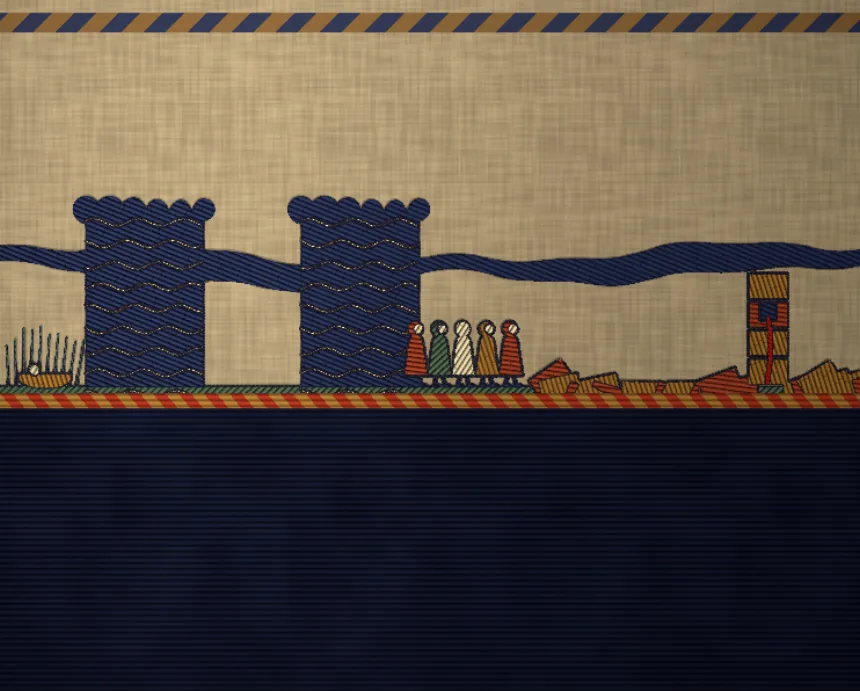
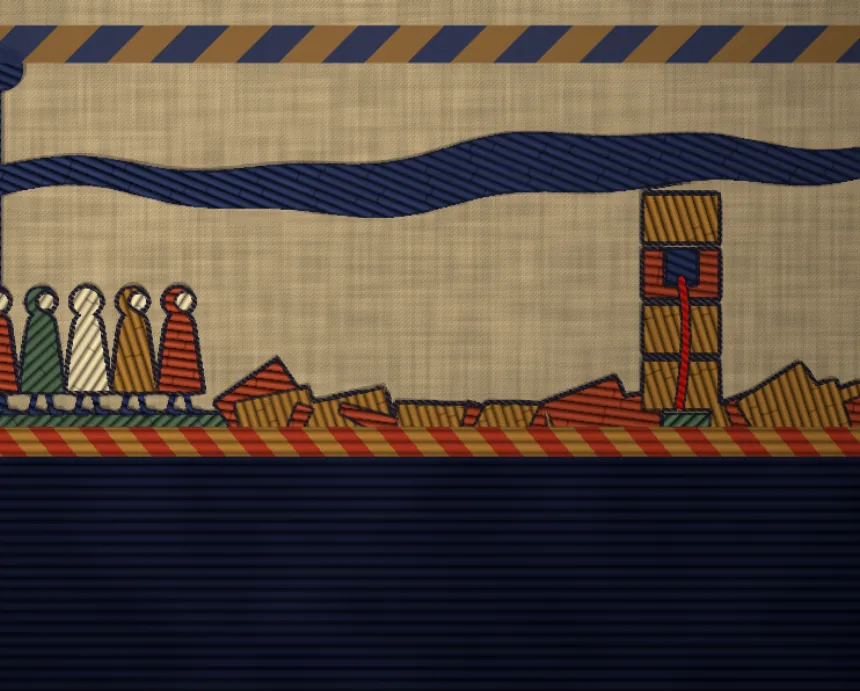
Pan the Hebrews 11 cloth on phones and fix review findings
Phones now see a closer view that travels along each scene on a route
timed to its events, so figures are about twice the size. Scene I keeps
the full view. Art no longer shows above the top border.

Fix two Korean chips that ended on an opening quote mark, use the
새번역 term for the furnace, smooth stiff Korean phrasing, and restore
the teacher's NIV wording in the commentary.

diff --git a/content/hebrews/11.ts b/content/hebrews/11.ts
@@ -64,7 +64,7 @@ const MV: Movement[] = [
       title: "보이지 않는 것들",
       quote: "“…보이는 것은 나타나 있는 것에서 된 것이 아닙니다.”",
       sref: "히브리서 11:3",
-      cap: "장면: 빈 삼베 위에 아무것도 없다가, 보이는 온 세상이 없던 데서 수놓아집니다.",
+      cap: "장면: 빈 천 위에 아무것도 없다가, 보이는 온 세상이 없던 데서 수놓아집니다.",
       snips: [
         "믿음은 확신이요 증거입니다",
         "선조들은 믿음으로 증언을 받았습니다",
@@ -92,7 +92,7 @@ const MV: Movement[] = [
         ],
         [
           "p",
-          "이 장은 독자에게 마음과 참된 헌신으로 하나님을 믿는 법을 가르칩니다. 참된 믿음과 빈 종교를 대조합니다.",
+          "이 장은 독자에게 마음과 참된 헌신으로 하나님을 믿는 법을 가르칩니다. 참된 믿음과 형식뿐인 종교를 대조합니다.",
         ],
         ["h", "없는 데서"],
         [
@@ -235,7 +235,7 @@ const MV: Movement[] = [
         ["h", "Enoch: he walked with God"],
         [
           "p",
-          "Genesis 5 is the genealogy from Adam to Noah. Enoch lived 365 years and fathered Methuselah with other sons and daughters. He is the only person in the whole genealogy of whom it is said that he walked with God, and then he was not, for God took him (Gen 5:21–24).",
+          "Genesis 5 is the genealogy from Adam to Noah. Enoch lived 365 years and fathered Methuselah with other sons and daughters. He is the only person in the whole genealogy of whom it is said that he walked faithfully with God, and then was no more, because God took him (Gen 5:21–24).",
         ],
         [
           "p",
@@ -244,7 +244,7 @@ const MV: Movement[] = [
         ["h", "Noah: warned of what could not be seen"],
         [
           "p",
-          "Genesis 6 calls Noah a righteous man, blameless in his generation, who walked with God (v9). God commanded precisely how to build the ark and what to take in, and Noah did all that God commanded him (v22).",
+          "Genesis 6 calls Noah a righteous man, blameless among the people of his time, who walked faithfully with God (v9). God commanded precisely how to build the ark and what to take in, and Noah did everything just as God commanded him (v22).",
         ],
         [
           "p",
@@ -289,7 +289,7 @@ const MV: Movement[] = [
         ],
         [
           "p",
-          "아벨의 제물은 그의 속 믿음을 그대로 보여 주었고, 가인의 제물은 믿음이 없음을 보여 주었습니다. 저자는 아벨이 죽었지만 아직도 말하고 있다고 덧붙입니다. 아벨은 진실한 마음으로 하나님께 나아가는 법과, 가장 좋은 것으로 하나님을 신뢰하는 모습을 가르칩니다. 하나님께서는 참된 헌신을 보시고 귀히 여기시고 기억하십니다. 이것이 믿음으로 맺는 관계와 빈 종교의 차이입니다.",
+          "아벨의 제물은 그의 속 믿음을 그대로 보여 주었고, 가인의 제물은 믿음이 없음을 보여 주었습니다. 저자는 아벨이 죽었지만 아직도 말하고 있다고 덧붙입니다. 아벨은 진실한 마음으로 하나님께 나아가는 법과, 가장 좋은 것으로 하나님을 신뢰하는 모습을 가르칩니다. 하나님께서는 참된 헌신을 보시고 귀히 여기시고 기억하십니다. 이것이 믿음으로 맺는 관계와 형식뿐인 종교의 차이입니다.",
         ],
         ["h", "에녹: 하나님과 동행함"],
         [
@@ -481,7 +481,7 @@ const MV: Movement[] = [
         ["h", "Tents and a city"],
         [
           "p",
-          "In Genesis 12 God calls Abram: “Go from your country and your kindred and your father’s house to the land that I will show you”, which is Canaan. The key link is Genesis 12:4, where Abraham went as the Lord had told him. The author explains that this going was by faith.",
+          "In Genesis 12 God calls Abram: “Go from your country, your people and your father’s household to the land I will show you”, which is Canaan. The key link is Genesis 12:4, where Abraham went as the Lord had told him. The author explains that this going was by faith.",
         ],
         [
           "p",
@@ -676,7 +676,7 @@ const MV: Movement[] = [
         en: "Gen 17:16",
         ko: "창 17:16",
         ten: "I will bless her, and moreover, I will give you a son by her. I will bless her, and she shall become nations; kings of peoples shall come from her.”",
-        tko: "내가 그에게 복을 주어, 너에게 아들을 낳아 주게 하겠다. 내가 너의 아내에게 복을 주어서, 여러 민족의 어머니가 되게 하고, 백성들을 다스리는 왕들이 그에게서 나오게 하겠다.“",
+        tko: "내가 그에게 복을 주어, 너에게 아들을 낳아 주게 하겠다. 내가 너의 아내에게 복을 주어서, 여러 민족의 어머니가 되게 하고, 백성들을 다스리는 왕들이 그에게서 나오게 하겠다.”",
         wen: "Sarah, the mother of nations.",
         wko: "여러 민족의 어머니.",
       },
@@ -930,7 +930,7 @@ const MV: Movement[] = [
         en: "John 8:56",
         ko: "요 8:56",
         ten: "Your father Abraham rejoiced that he would see my day. He saw it and was glad.”",
-        tko: "너희의 조상 아브라함은 나의 날을 보리라고 기대하며 즐거워하였고, 마침내 보고 기뻐하였다.“",
+        tko: "너희의 조상 아브라함은 나의 날을 보리라고 기대하며 즐거워하였고, 마침내 보고 기뻐하였다.”",
         wen: "Abraham saw my day.",
         wko: "아브라함은 나의 날을 보았습니다.",
       },
@@ -1113,7 +1113,7 @@ const MV: Movement[] = [
         ["h", "이집트의 이스라엘 자손"],
         [
           "p",
-          "출애굽기 1장은 요셉을 알지 못하는 새 왕이 이집트를 다스렸다고 설명합니다. 이스라엘 자손이 많아지고 강해지자, 왕은 남자 아기를 모두 죽이려 했습니다. 2장에서 아므람과 요게벳은 모세가 잘생긴 것을 보고 석 달 동안 숨겼습니다. 스데반은 하나님 보시기에 아름다웠다고 말합니다(행 7:20). 부모는 하나님께서 정하신 특별한 뜻을 알아보았고, 그의 신적인 부르심을 알았습니다. 모세는 자란 뒤에 히브리 사람을 때리는 이집트 사람을 죽였습니다.",
+          "출애굽기 1장은 요셉을 알지 못하는 새 왕이 이집트를 다스렸다고 설명합니다. 이스라엘 자손이 많아지고 강해지자, 왕은 남자 아기를 모두 죽이려 했습니다. 2장에서 아므람과 요게벳은 모세가 잘생긴 것을 보고 석 달 동안 숨겼습니다. 스데반은 하나님 보시기에 아름다웠다고 말합니다(행 7:20). 부모는 하나님께서 정하신 특별한 뜻을 알아보았고, 그에게 있는 하나님의 부르심을 알았습니다. 모세는 자란 뒤에 히브리 사람을 때리는 이집트 사람을 죽였습니다.",
         ],
         ["h", "보이지 않는 하나님을 더 두려워함"],
         [
@@ -1169,7 +1169,7 @@ const MV: Movement[] = [
           g: "asteion · ἀστεῖον",
           v: "11:23",
           s: "겉모습 이상의 뜻",
-          d: "아름다움. 부모는 아기에게 있는 신적인 부르심을 알아보았고, 스데반은 하나님 보시기에 아름다웠다고 말합니다(행 7:20).",
+          d: "아름다움. 부모는 아기에게 있는 하나님의 부르심을 알아보았고, 스데반은 하나님 보시기에 아름다웠다고 말합니다(행 7:20).",
         },
         reproach: {
           t: "모욕",
@@ -1377,11 +1377,11 @@ const MV: Movement[] = [
         ["h", "시간이 모자랍니다"],
         [
           "p",
-          "나라들을 정복함: 여호수아와 다윗과 사사들은 가나안을 차지하거나 위협하던 이방 나라들을 물리쳤습니다. 정의를 실천함: 사무엘과 다윗은 경건한 다스리는 사람과 재판관으로서 이스라엘에 하나님의 정의를 세웠습니다. 약속된 것을 받음: 여호수아와 갈렙은 약속대로 가나안에 들어갔습니다.",
+          "나라들을 정복함: 여호수아와 다윗과 사사들은 가나안을 차지하거나 위협하던 이방 나라들을 물리쳤습니다. 정의를 실천함: 사무엘과 다윗은 경건한 통치자이자 재판관으로서 이스라엘에 하나님의 정의를 세웠습니다. 약속된 것을 받음: 여호수아와 갈렙은 약속대로 가나안에 들어갔습니다.",
         ],
         [
           "p",
-          "사자의 입을 막음: 사자 굴의 다니엘, 맨손으로 사자를 죽인 삼손과 다윗입니다. 불의 위력을 꺾음: 다니엘의 세 친구는 풀무불에서 옷조차 상하지 않고 걸어 나왔습니다. 칼날을 피함: 엘리야와 엘리사는 아합 왕과 이세벨 왕비의 살해 위협에서 살아남았습니다.",
+          "사자의 입을 막음: 사자 굴의 다니엘, 맨손으로 사자를 죽인 삼손과 다윗입니다. 불의 위력을 꺾음: 다니엘의 세 친구는 불타는 화덕에서 옷조차 상하지 않고 걸어 나왔습니다. 칼날을 피함: 엘리야와 엘리사는 아합 왕과 이세벨 왕비의 살해 위협에서 살아남았습니다.",
         ],
         [
           "p",

diff --git a/components/scenes/three/primitives/Cloth.tsx b/components/scenes/three/primitives/Cloth.tsx
@@ -33,6 +33,9 @@ export const CLOTH = {
 const DEFAULT_FRAME: Frame = [0, 130, 1600, FLOOR - 130];
 const SAFE_WIDE = [0.1, 0.66] as const;
 const SAFE_MOBILE = [0.1, 0.56] as const;
+const PHONE_FLOOR = 0.6;
+const PHONE_REACH = 330;
+const ART_WIDTH = 1600;
 const PAINT_STEP = 1 / 30;
 const MAX_ART = 1600;
 const BASE_HEIGHT = 576;
@@ -65,7 +68,8 @@ const FRAG = /* glsl */ `
     float folds = 1.0 + 0.045 * sin(p.x * 3.1 + 0.8 * sin(p.x * 1.3)) * (0.7 + 0.3 * sin(vUv.y * 2.4));
 
     vec4 cloth = texture2D(uWeave, p * 2.2);
-    vec3 c = vec3(0.8, 0.7, 0.53) * (0.78 + 0.3 * cloth.r) * (0.84 + 0.24 * cloth.g);
+    vec3 linen = vec3(0.8, 0.7, 0.53) * (0.78 + 0.3 * cloth.r) * (0.84 + 0.24 * cloth.g);
+    vec3 c = linen;
 
     vec4 a = textureLod(uArt, vUv, uLod);
     float wide = textureLod(uArt, vUv, uLod + 3.2).r;
@@ -122,6 +126,7 @@ const FRAG = /* glsl */ `
     c = mix(c, mix(vec3(0.63, 0.43, 0.19), vec3(0.62, 0.2, 0.13), zig) * mix(0.9, 0.7 + 0.5 * laid, uFine), band);
 
     float top = (1.0 - vUv.y) * uUnits.y;
+    c = mix(linen, c, smoothstep(0.026, 0.028, top));
     float rim = (1.0 - smoothstep(0.066, 0.068, top)) * smoothstep(0.026, 0.028, top);
     float slant = step(0.5, fract((p.x + top) * 11.0));
     c = mix(c, mix(vec3(0.17, 0.2, 0.32), vec3(0.63, 0.43, 0.19), slant * 0.82), rim * 0.92);
@@ -213,6 +218,18 @@ function clothMaterial(art: Texture) {
   });
 }
 
+/** Time in seconds, and how far along the cloth the phone's window sits, from 0 to 1. */
+export type Route = readonly (readonly [number, number])[];
+
+function along(route: Route, t: number) {
+  for (let i = 1; i < route.length; i++) {
+    const [a, from] = route[i - 1];
+    const [b, to] = route[i];
+    if (t <= b) return from + (to - from) * smoothstep(a, b, t);
+  }
+  return route[route.length - 1][1];
+}
+
 interface EmbroideryProps {
   /** Draws the stitches for time `t` in logical units; feet stand on FLOOR. */
   paint: (t: number) => void;
@@ -227,6 +244,8 @@ interface EmbroideryProps {
   reserve?: number;
   /** How far the cloth has moved to the left, in logical units. */
   pan?: (t: number) => number;
+  /** On phones, a closer view that travels along the scene. */
+  route?: Route;
   pointer?: RefObject<PointerState>;
 }
 
@@ -241,6 +260,7 @@ export function Embroidery({
   safe = mobile ? SAFE_MOBILE : SAFE_WIDE,
   reserve,
   pan,
+  route,
   pointer,
 }: EmbroideryProps) {
   const size = useThree((s) => s.size);
@@ -267,9 +287,20 @@ export function Embroidery({
     ? Math.max(0.3, 1 - reserve / Math.max(size.height, 1))
     : safe[1];
   const top = safe[0];
+  const travelling = mobile && route !== undefined;
+  const closeScale = ((PHONE_FLOOR - top) * height) / PHONE_REACH;
+  const travel = travelling ? ART_WIDTH - width / closeScale : 0;
+  const close = travel > 0;
   const fit = useMemo(
-    () => fitFrame(width, height, frame, [top, floorAt]),
-    [width, height, frame, top, floorAt],
+    () =>
+      close
+        ? {
+            scale: closeScale,
+            x: 0,
+            y: PHONE_FLOOR * height - FLOOR * closeScale,
+          }
+        : fitFrame(width, height, frame, [top, floorAt]),
+    [close, closeScale, width, height, frame, top, floorAt],
   );
 
   useEffect(
@@ -293,7 +324,7 @@ export function Embroidery({
 
     const unit = 900 * fit.scale;
     const rows = mobile ? ROWS_MOBILE : ROWS_WIDE;
-    const moved = pan ? pan(p) : 0;
+    const moved = close && route ? along(route, p) * travel : pan ? pan(p) : 0;
     setUniform(material, "uFade", fade);
     setUniform(material, "uLod", Math.log2(height / BASE_HEIGHT));
     setUniform(

diff --git a/components/scenes/three/scenes/ClothScenes.tsx b/components/scenes/three/scenes/ClothScenes.tsx
@@ -2,7 +2,7 @@
 
 import type { SceneProps } from "../registry";
 import type { Frame } from "../primitives/Beaten";
-import { Embroidery } from "../primitives/Cloth";
+import { Embroidery, type Route } from "../primitives/Cloth";
 import {
   altar,
   ark,
@@ -54,6 +54,41 @@ const LAST_STITCH = 2990;
 /** Stitches a group in from the ground up. */
 const stitchUp = (x: number, w: number, a: number, draw: () => void) =>
   withinBox(x, FLOOR + 14 - 320 * a, w, 320 * a, draw);
+
+const ROUTES: Record<string, Route> = {
+  stillSpeaks: [
+    [0, 0],
+    [3.4, 0],
+    [5.2, 0.4],
+    [8.2, 0.4],
+    [10, 1],
+  ],
+  afar: [
+    [0, 0],
+    [3, 0],
+    [9, 1],
+  ],
+  receivedBack: [
+    [0, 0],
+    [8, 0],
+    [11, 1],
+  ],
+  invisible: [
+    [0, 0],
+    [5.6, 0],
+    [9, 1],
+  ],
+  notWorthy: [
+    [0, 0],
+    [3, 0],
+    [7, 1],
+  ],
+  apartFromUs: [
+    [0, 0],
+    [3, 0],
+    [8, 1],
+  ],
+};
 
 const heroPan = (t: number) => smoothstep(0.4, HERO_HOLD, t) * HERO_PAN;
 
@@ -165,6 +200,7 @@ export function StillSpeaksScene({ mobile, effects, pointer }: SceneProps) {
   return (
     <Embroidery
       paint={paintStillSpeaks}
+      route={ROUTES.stillSpeaks}
       period={PERIOD}
       mobile={mobile}
       effects={effects}
@@ -207,6 +243,7 @@ export function AfarScene({ mobile, effects, pointer }: SceneProps) {
   return (
     <Embroidery
       paint={paintAfar}
+      route={ROUTES.afar}
       period={PERIOD}
       mobile={mobile}
       effects={effects}
@@ -267,6 +304,7 @@ export function ReceivedBackScene({ mobile, effects, pointer }: SceneProps) {
   return (
     <Embroidery
       paint={paintReceivedBack}
+      route={ROUTES.receivedBack}
       period={PERIOD}
       mobile={mobile}
       effects={effects}
@@ -300,6 +338,7 @@ export function InvisibleScene({ mobile, effects, pointer }: SceneProps) {
   return (
     <Embroidery
       paint={paintInvisible}
+      route={ROUTES.invisible}
       period={PERIOD}
       mobile={mobile}
       effects={effects}
@@ -337,6 +376,7 @@ export function NotWorthyScene({ mobile, effects, pointer }: SceneProps) {
   return (
     <Embroidery
       paint={paintNotWorthy}
+      route={ROUTES.notWorthy}
       period={PERIOD}
       mobile={mobile}
       effects={effects}
@@ -376,6 +416,7 @@ export function ApartFromUsScene({ mobile, effects, pointer }: SceneProps) {
   return (
     <Embroidery
       paint={paintApartFromUs}
+      route={ROUTES.apartFromUs}
       period={PERIOD}
       mobile={mobile}
       effects={effects}
